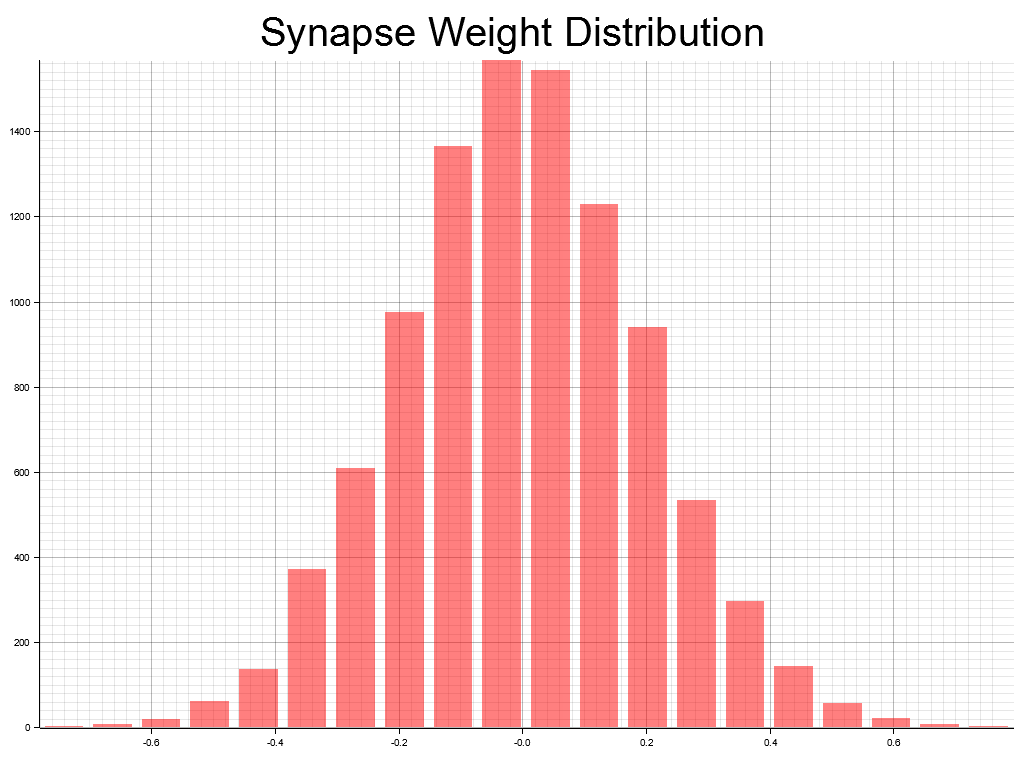
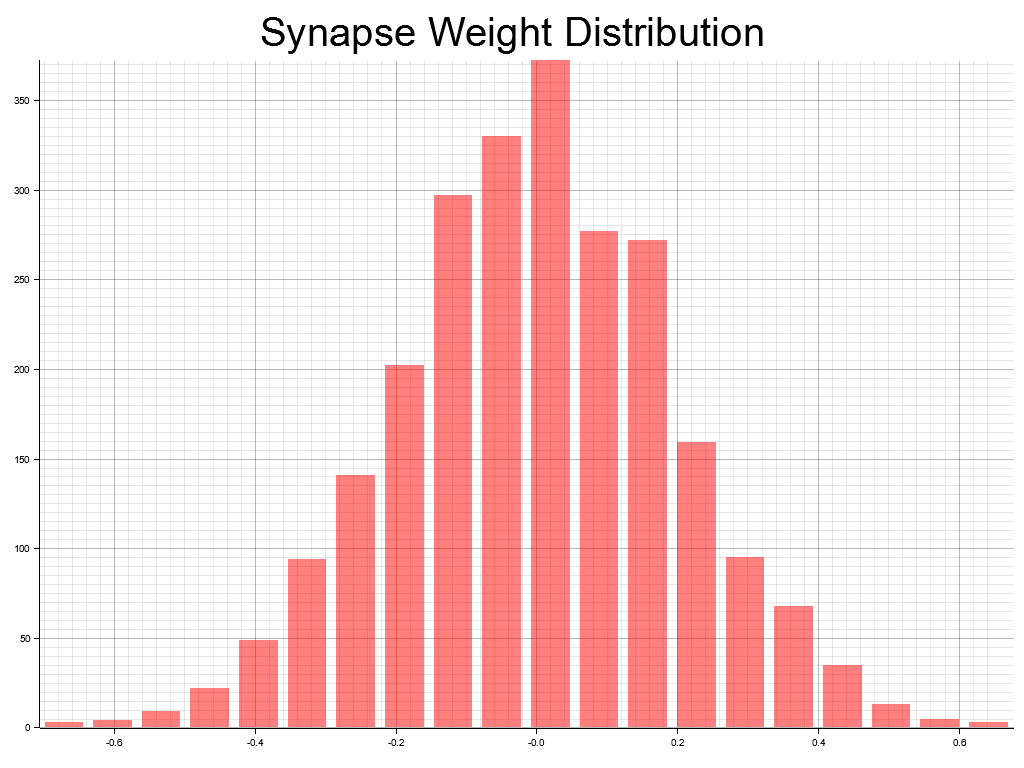
Now using random from seed for reproducibility

diff --git a/src/neuron.rs b/src/neuron.rs
@@ -1,8 +1,13 @@
 use std::sync::{Arc, RwLock};
 use crate::constants::{MAX_NEURON_DECAY_RATE, MAX_REFRACTORY_PERIOD_MS, MIN_NEURON_DECAY_RATE, MIN_REFRACTORY_PERIOD_MS, REWARD_AVERAGE_DURATION};
-use rand::Rng;
 use crate::datastructures::exponential_rolling_mean::EmaMeanF32;
 use crate::synapse::ChemicalSynapse;
+
+#[derive(Clone, Debug)]
+pub struct SpikeTime {
+    time: f32,
+    pub membrane_potential_at_spike: f32,
+}
 
 #[derive(Clone, Debug)]
 pub struct Neuron {
@@ -17,9 +22,10 @@ pub struct Neuron {
     last_update_time: f32,
 
     // Reward properties
-    last_spike_magnitude: f32,
     ema_activation: EmaMeanF32,
-    ema_firing_rate: EmaMeanF32
+    ema_firing_rate: EmaMeanF32,
+    last_spike_times: Vec<SpikeTime>,
+    pub ema_firing_rate_before_last_spike: f32,
 }
 
 pub trait NeuronBehavior {
@@ -33,26 +39,30 @@ pub trait NeuronBehavior {
     fn ema_activation_average(&self, time: f32) -> f32;
     fn ema_firing_rate_average(&self, time: f32) -> f32;
     fn last_spike_magnitude(&self) -> f32;
+    fn first_spike_after(&self, time: f32) -> Option<&SpikeTime>;
 }
+
+const LAST_SPIKE_STORAGE_SIZE: usize = 10;
+
 
 impl NeuronBehavior for Neuron {
     /// Constructor to create a new neuron.
     fn new(threshold: f32, id: usize) -> Self {
         // Create random generator
-        let mut rng = rand::thread_rng();
         Neuron {
             id,
             membrane_potential: 0.0,
             threshold,
-            refractory_period: rng.gen_range(MIN_REFRACTORY_PERIOD_MS..MAX_REFRACTORY_PERIOD_MS),
+            refractory_period: MIN_REFRACTORY_PERIOD_MS, //rng.gen_range(MIN_REFRACTORY_PERIOD_MS..MAX_REFRACTORY_PERIOD_MS),
             time_of_last_fire: -f32::INFINITY,
             exiting_synapses: Vec::new(),
             entering_synapses: Vec::new(),
             last_update_time: 0.0,
-            decay_rate: rng.gen_range(MIN_NEURON_DECAY_RATE..MAX_NEURON_DECAY_RATE),
+            decay_rate: MIN_NEURON_DECAY_RATE, // rng.gen_range(MIN_NEURON_DECAY_RATE..MAX_NEURON_DECAY_RATE),
             ema_activation: EmaMeanF32::new(REWARD_AVERAGE_DURATION),
             ema_firing_rate: EmaMeanF32::new(REWARD_AVERAGE_DURATION),
-            last_spike_magnitude: 0.0,
+            last_spike_times: vec![],
+            ema_firing_rate_before_last_spike: 0.0,
         }
     }
 
@@ -80,11 +90,19 @@ impl NeuronBehavior for Neuron {
     fn step(&mut self, time: f32) -> bool {
         if self.will_fire(time) {
             self.ema_activation.add(time, self.membrane_potential);
+            self.ema_firing_rate_before_last_spike = self.ema_firing_rate.get_mean(time).unwrap_or(0.0);
 
             // 2. Add to firing rate (spike) EMA. We add 1.0 to represent one spike.
             self.ema_firing_rate.add(time, 1.0);
 
-            self.last_spike_magnitude = self.membrane_potential;
+            if self.last_spike_times.len() >= LAST_SPIKE_STORAGE_SIZE {
+                self.last_spike_times.remove(0);
+            }
+            self.last_spike_times.push(SpikeTime {
+                time,
+                membrane_potential_at_spike: self.membrane_potential,
+            });
+
             self.time_of_last_fire = time;
             self.membrane_potential = 0.0; // Reset potential after firing
             true
@@ -104,7 +122,11 @@ impl NeuronBehavior for Neuron {
         self.time_of_last_fire
     }
     fn last_spike_magnitude(&self) -> f32 {
-        self.last_spike_magnitude
+        if let Some(last_spike) = self.last_spike_times.last() {
+            last_spike.membrane_potential_at_spike
+        } else {
+            0.0
+        }
     }
     fn ema_activation_average(&self, time: f32) -> f32 {
         self.ema_activation.get_mean(time).unwrap_or(0.0)
@@ -112,5 +134,14 @@ impl NeuronBehavior for Neuron {
 
     fn ema_firing_rate_average(&self, time: f32) -> f32 {
         self.ema_firing_rate.get_mean(time).unwrap_or(0.0)
+    }
+
+    fn first_spike_after(&self, time: f32) -> Option<&SpikeTime> {
+        for spike in &self.last_spike_times {
+            if spike.time >= time {
+                return Some(spike);
+            }
+        }
+        None
     }
 }

diff --git a/src/reward_system.rs b/src/reward_system.rs
@@ -35,30 +35,34 @@ impl RewardSystem {
         let average_reward = self.average_reward.get_mean(time).unwrap_or(0.0);
         let delta_reward = self.last_reward - average_reward;
         if delta_reward == 0.0 {return}
-        println!("Delta Reward: {}, {} spike events", delta_reward, spike_events.len());
 
+        let mut delta_sum = 0.0;
         for spike_event in spike_events {
             // a_i(t) - a_i_avg(t)
             let synapse = spike_event.read().unwrap().clone().synapse;
+            let event = spike_event.read().unwrap();
 
             // --- This is the missing part ---
             // 1. Get Presynaptic Activity: x_j(t)
-            let presynaptic_activity = {
-                synapse.read().unwrap().get_presynaptic_neuron().read().unwrap().ema_firing_rate_average(time)
-            };
+            let presynaptic_activity = event.presynaptic_ema_firing_rate_before_spike;
             let post_synaptic_neuron_deviation =
                 {
                     let read = synapse.read().unwrap();
                     let post_synaptic_neuron = read.postsynaptic_neuron.read().unwrap();
-                    post_synaptic_neuron.last_spike_magnitude()
-                        - post_synaptic_neuron.ema_activation_average(time)
+                    let first_spike_after = post_synaptic_neuron.first_spike_after(event.delivery_time - f32::EPSILON);
+                    if first_spike_after.is_none() {
+                        continue;
+                    }
+                    first_spike_after.unwrap().membrane_potential_at_spike - post_synaptic_neuron.ema_activation_average(time)
                 };
             let delta = self.learning_rate * presynaptic_activity * post_synaptic_neuron_deviation * delta_reward;
+            delta_sum += delta;
             //println!("Delta Reward: {}, Presynaptic Activity: {}, Post Synaptic Deviation: {}, Weight Change: {}", delta_reward, presynaptic_activity, post_synaptic_neuron_deviation, delta);
 
             let current_synapse_weight = synapse.read().unwrap().weight;
             synapse.write().unwrap().weight = (current_synapse_weight + delta).clamp(MIN_SYNAPSE_WEIGHT, MAX_SYNAPSE_WEIGHT);
         }
+        println!("Total weight change this reward: {}, And average: {}, num spikes: {}", delta_sum, delta_sum/(spike_events.len() as f32), spike_events.len());
         self.last_reward = 0.0;
     }
 }

diff --git a/src/main.rs b/src/main.rs
@@ -1,5 +1,7 @@
-use rand::{thread_rng, Rng};
-use plotters::prelude::*; // Added for reward plotting
+use rand::{thread_rng, Rng, SeedableRng};
+use plotters::prelude::*;
+use rand::rngs::StdRng;
+// Added for reward plotting
 use crate::network::{Network, VisualizeNetwork};
 use crate::neuron::NeuronBehavior;
 use crate::simulation::Simulation;
@@ -62,9 +64,9 @@ fn plot_reward_over_time(
 
 fn main() {
     println!("Spiking Neural Network Simulation");
-    let network = Network::create_dense(100);
+    let mut rng = StdRng::seed_from_u64(42);
+    let network = Network::create_dense(50, &mut rng);
     let mut simulation = Simulation::new(1.0, network.neurons.clone());
-    let mut rng = thread_rng();
 
     network.plot_synapse_weights("synapse_weights_start.png").unwrap();
 
@@ -73,7 +75,7 @@ fn main() {
     const OUTPUT_NEURON_IDX: usize = 9; // Target output
     const REWARD_MAGNITUDE: f32 = 1.0; // Changed to f32
 
-    const NUM_TRIALS: u32 = 2000;
+    const NUM_TRIALS: u32 = 20_000;
     const TRIAL_WINDOW_STEPS: u32 = 25;
 
     println!("Starting simulation... Target: Neuron {} spikes for Input {}, not for Input {}.",
@@ -101,7 +103,7 @@ fn main() {
         // --- This is the inner trial loop ---
         for _ in 0..TRIAL_WINDOW_STEPS {
             simulation.input_external_stimuli(network.neurons[input_idx].clone(), 1.0);
-            simulation.random_noise(-1.0, 1.0, 0.2);
+            //simulation.random_noise(-1.0, 1.0, 0.01);
             simulation.step();
             // DO NOT apply reward here
         }
@@ -111,7 +113,7 @@ fn main() {
         let output_spiked_during_trial = {
             network.neurons[OUTPUT_NEURON_IDX].read().unwrap().time_of_last_fire() > last_spike_time_before_trial
         };
-        println!("Output spiked during trial: {}", output_spiked_during_trial);
+        //println!("Output spiked during trial: {}", output_spiked_during_trial);
 
         let reward: f32;
         if is_go_signal {

diff --git a/src/network.rs b/src/network.rs
@@ -2,6 +2,7 @@ use crate::neuron::{Neuron, NeuronBehavior};
 use crate::synapse::{ChemicalSynapse, Synapse};
 use plotters::prelude::*;
 use std::sync::{Arc, RwLock};
+use rand::Rng;
 use crate::constants::{MAX_NEURON_THRESHOLD, MIN_NEURON_THRESHOLD};
 use crate::utils::get_clamped_normal;
 
@@ -16,11 +17,10 @@ impl Network {
         Network { neurons, synapses }
     }
 
-    pub fn create_dense(num_neurons: usize) -> Self {
-        let mut rng = rand::thread_rng();
+    pub fn create_dense(num_neurons: usize, rng: &mut impl Rng) -> Self {
         let mut neurons = Vec::with_capacity(num_neurons);
         for i in 0..num_neurons {
-            neurons.push(Arc::new(RwLock::new(Neuron::new(get_clamped_normal(MIN_NEURON_THRESHOLD, MAX_NEURON_THRESHOLD, &mut rng), i))));
+            neurons.push(Arc::new(RwLock::new(Neuron::new(get_clamped_normal(MIN_NEURON_THRESHOLD, MAX_NEURON_THRESHOLD, rng), i))));
         }
 
         let mut synapses = Vec::new();
@@ -30,7 +30,7 @@ impl Network {
                     let synapse = Arc::new(RwLock::new(ChemicalSynapse::new(
                         neurons.get(pre).unwrap().clone(),
                         neurons.get(post).unwrap().clone(),
-                        &mut rng
+                        rng
                     )));
                     neurons.get(pre).unwrap().write().unwrap().exiting_synapses.push(synapse.clone());
                     neurons.get(post).unwrap().write().unwrap().entering_synapses.push(synapse.clone());

diff --git a/src/simulation.rs b/src/simulation.rs
@@ -30,6 +30,9 @@ impl Simulation {
 
     pub fn reward(&mut self, reward: f32) {
         self.reward_system.add_reward(self.time, reward);
+        if self.current_trial_spike_events.is_empty() {
+            return;
+        }
         self.reward_system
             .update_synapses(self.time, &self.current_trial_spike_events);
         self.current_trial_spike_events = Vec::new();
@@ -42,6 +45,7 @@ impl Simulation {
             let spike_event = Arc::new(RwLock::new(SpikeEvent {
                 synapse: syn.clone(),
                 delivery_time: self.time + wsyn.delay,
+                presynaptic_ema_firing_rate_before_spike: neuron.read().unwrap().ema_firing_rate_before_last_spike
             }));
             self.spike_queue.push_back(spike_event);
         }
@@ -69,9 +73,8 @@ impl Simulation {
         self.step_process_nodes(vec![node]);
     }
 
-    pub fn random_noise(&mut self, min: f32, max: f32, percent: f32) {
+    pub fn random_noise(&mut self, min: f32, max: f32, percent: f32, rng: &mut impl Rng) {
         // Adds random noise to a percentage of neurons
-        let mut rng = rand::thread_rng();
         let num_neurons = (self.neurons.len() as f32 * percent).ceil() as usize;
         let mut selected_indices = Vec::with_capacity(num_neurons);
         let mut modified_neurons = Vec::with_capacity(num_neurons);

diff --git a/src/constants.rs b/src/constants.rs
@@ -2,11 +2,11 @@ pub const MIN_SYNAPSE_DELAY_MS: f32 = 1.0; // Minimum synapse delay in ms
 pub const MAX_SYNAPSE_DELAY_MS: f32 = 2.0; // Maximum synapse delay in ms
 pub const MIN_SYNAPSE_WEIGHT: f32 = -1.0;
 pub const MAX_SYNAPSE_WEIGHT: f32 = 1.0;
-pub const MIN_REFRACTORY_PERIOD_MS: f32 = 5.0; // Minimum neuron refractory period in ms
+pub const MIN_REFRACTORY_PERIOD_MS: f32 = 3.0; // Minimum neuron refractory period in ms
 pub const MAX_REFRACTORY_PERIOD_MS: f32 = 10.0; //
-pub const MIN_NEURON_DECAY_RATE: f32 = 0.002; // Minimum neuron decay rate
+pub const MIN_NEURON_DECAY_RATE: f32 = 0.15; // Minimum neuron decay rate
 pub const MAX_NEURON_DECAY_RATE: f32 = 0.05;
 pub const MIN_NEURON_THRESHOLD: f32 = 1.0; // Minimum neuron firing threshold
 pub const MAX_NEURON_THRESHOLD: f32 = 1.0; // Maximum neuron
-pub const REWARD_AVERAGE_DURATION: f32 = 25.0; // 20 ms
-pub const LEARNING_RATE: f32 = 0.01;
+pub const REWARD_AVERAGE_DURATION: f32 = 1000.0; // 20 ms
+pub const LEARNING_RATE: f32 = 0.001;

diff --git a/src/spike_event.rs b/src/spike_event.rs
@@ -6,6 +6,7 @@ use std::sync::{Arc, RwLock};
 pub struct SpikeEvent {
     pub synapse: Arc<RwLock<ChemicalSynapse>>,
     pub delivery_time: f32,
+    pub presynaptic_ema_firing_rate_before_spike: f32,
 }
 
 impl SpikeEvent {
